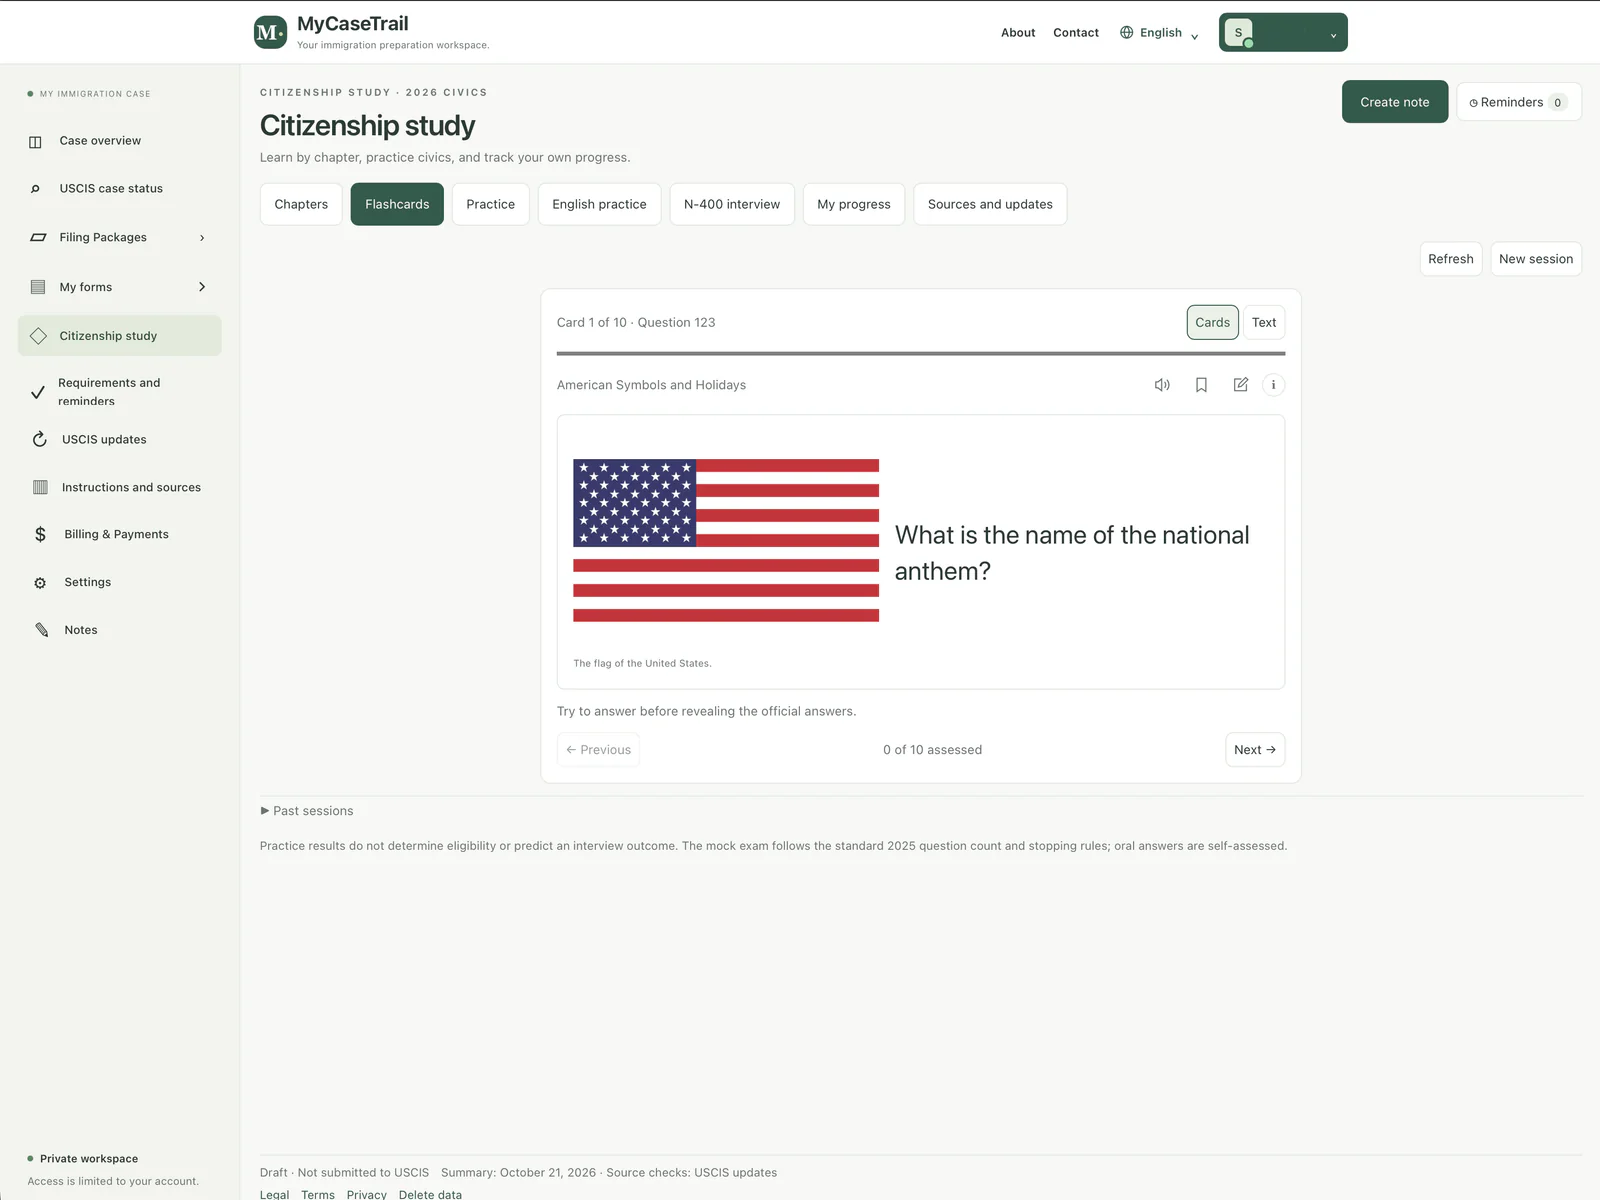
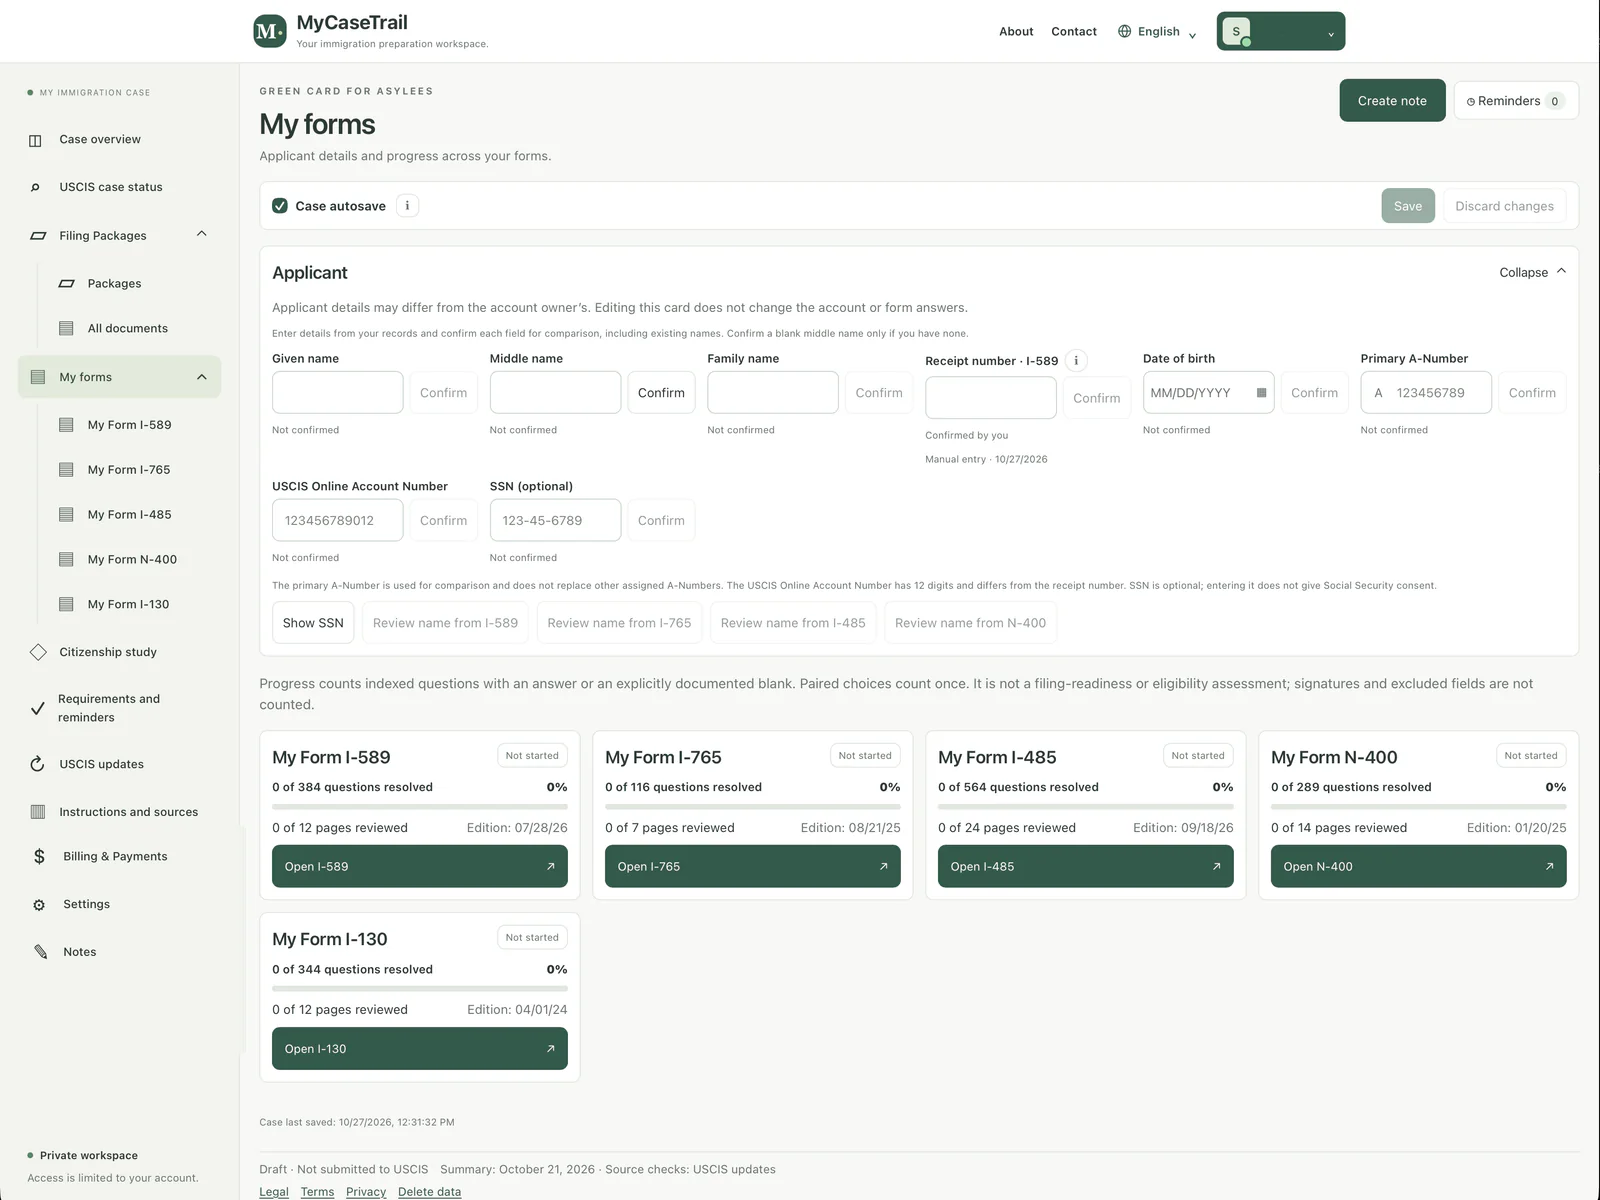
chore(projects): reorder MyCaseTrail screenshots

diff --git a/frontend/src/features/projects/data/projects/myCaseTrailProject.ts b/frontend/src/features/projects/data/projects/myCaseTrailProject.ts
@@ -1,7 +1,7 @@
 import type { ProjectShowcaseItem } from "@/features/projects/data/projectShowcase.types";
 
 // Bump when replacing these public assets so browser and CDN caches refresh.
-const screenshotVersion = "51a7a3b";
+const screenshotVersion = "ca75b9a975b0";
 
 export const myCaseTrailProject: ProjectShowcaseItem = {
   id: "mycasetrail",
@@ -18,12 +18,13 @@ export const myCaseTrailProject: ProjectShowcaseItem = {
   galleryImages: [
     {
       src: `/screenshots/projects/mycasetrail-2.webp?v=${screenshotVersion}`,
-      caption: "Citizenship study flashcards with illustrated civics questions",
+      caption:
+        "My forms overview with applicant details and separate form progress",
     },
     {
       src: `/screenshots/projects/mycasetrail-3.webp?v=${screenshotVersion}`,
       caption:
-        "My forms overview with applicant details and separate form progress",
+        "Filing Packages with fictional demo documents and preparation statuses",
     },
     {
       src: `/screenshots/projects/mycasetrail-4.webp?v=${screenshotVersion}`,
@@ -31,8 +32,7 @@ export const myCaseTrailProject: ProjectShowcaseItem = {
     },
     {
       src: `/screenshots/projects/mycasetrail-5.webp?v=${screenshotVersion}`,
-      caption:
-        "Filing Packages with fictional demo documents and preparation statuses",
+      caption: "Citizenship study flashcards with illustrated civics questions",
     },
     {
       src: `/screenshots/projects/mycasetrail-6.webp?v=${screenshotVersion}`,

diff --git a/frontend/src/pages/ProjectsPage.mycasetrail.test.tsx b/frontend/src/pages/ProjectsPage.mycasetrail.test.tsx
@@ -86,7 +86,7 @@ describe("MyCaseTrail project showcase", () => {
     });
     expect(within(preview).getByRole("img")).toHaveAttribute(
       "src",
-      "/screenshots/projects/mycasetrail-card.webp?v=51a7a3b"
+      "/screenshots/projects/mycasetrail-card.webp?v=ca75b9a975b0"
     );
 
     await user.click(preview);
@@ -97,7 +97,7 @@ describe("MyCaseTrail project showcase", () => {
       expect(within(dialog).getByText(`${number} of 6`)).toBeInTheDocument();
       expect(within(dialog).getByRole("img")).toHaveAttribute(
         "src",
-        `/screenshots/projects/mycasetrail-${number}.webp?v=51a7a3b`
+        `/screenshots/projects/mycasetrail-${number}.webp?v=ca75b9a975b0`
       );
       await user.click(
         within(dialog).getByRole("button", { name: "Next screenshot" })
